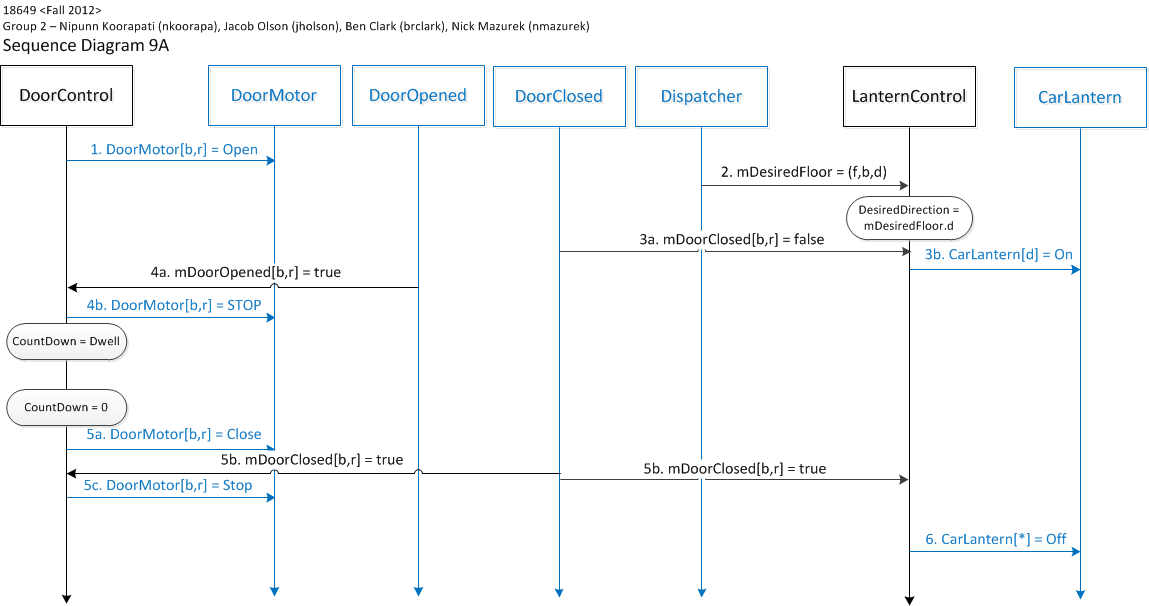
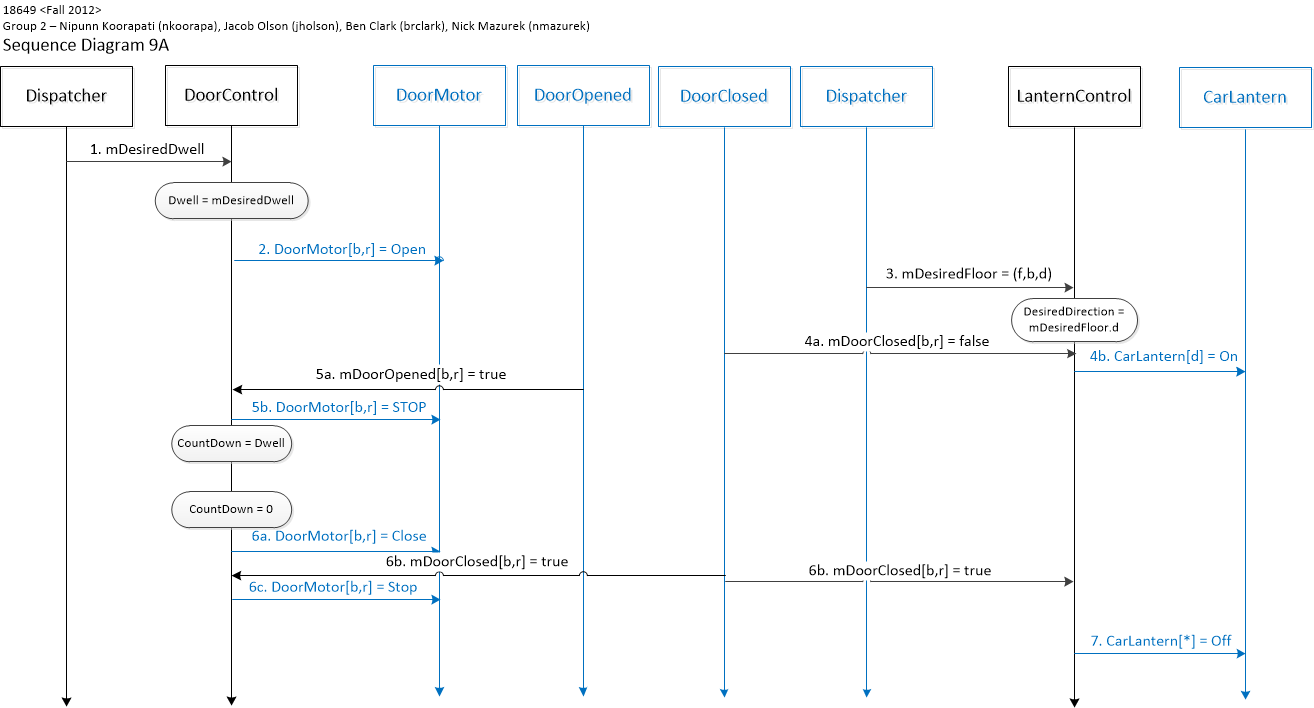
Fixed requirements for HallButtonControl. Peer reviewed by Jake.
Fixed sequence diagrams and scenario for 9A

diff --git a/portfolio/reqs/requirements2.html b/portfolio/reqs/requirements2.html
@@ -1592,26 +1592,24 @@ None.</li>
 <h3> CONSTRAINTS: </h3>
 None
 <h3> EVENT-TRIGGERED BEHAVIORS: </h3>
-8.1&nbsp;&nbsp;&nbsp; If HallCall[f,b,d] is received as Pressed, then<br>
 <ul>
-  <li>8.1.a&nbsp;&nbsp; HallLight[f,b,d] shall be set to On</li>
-  <li>8.1.b&nbsp;&nbsp; mHallCall[f,b,d] shall be set to True</li>
-  <li>8.1.c&nbsp;&nbsp; mHallLight[f,b,d] shall be set to True.</li>
-</ul><br>
-8.2&nbsp;&nbsp;&nbsp; If mAtFloor[f,b,d] is received as True, then
-CurrentFloor shall be set to f.<br>
-8.3&nbsp;&nbsp;&nbsp; If mDesiredFloor.f is received as V, then DesiredFloor
-shall be set to V.<br>
-8.4&nbsp;&nbsp;&nbsp; If mAtFloor[f,b] is received as True and mDesiredFloor
-is set to CurrentFloor, then:<br>
-<ul>
-  <li>8.4.a&nbsp;&nbsp; HallLight[f,b,d] shall be set to Off</li>
-  <li>8.4.b&nbsp;&nbsp; mHallLight[f,b,d] shall be set to False.</li>
-</ul><br>
-
-
-
-<br>
+  <li>8.1&nbsp; If HallCall[f,b,d] is received as Pressed, 
+    then:</li>
+    <ul>
+      <li>8.1.1&nbsp; HallLight[f,b,d] shall be set to On.</li>
+      <li>8.1.2&nbsp; mHallLight[f,b,d] shall be set to True.</li>
+    </ul>
+  <li>8.2&nbsp; If mAtFloor[f,b] is received as True, then
+    CurrentFloor shall be set to f.</li>
+  <li>8.3&nbsp; If mDesiredFloor.f is received as V, then DesiredFloor
+    shall be set to V.</li>
+  <li>8.4&nbsp; If mAtFloor[f,b] is received as True and DesiredFloor
+    is equal to CurrentFloor, then:</li>
+    <ul>
+      <li>8.4.1&nbsp; HallLight[f,b,d] shall be set to Off.</li>
+      <li>8.4.2&nbsp; mHallLight[f,b,d] shall be set to False.</li>
+    </ul>
+</ul>
 <h2><a name="carbuttoncontrol"></a> 9. CarButtonControl[f, b] </h2>
 <h3> Replication: </h3>
 <ul>

diff --git a/portfolio/scen_sd/scen_sd.html b/portfolio/scen_sd/scen_sd.html
@@ -542,6 +542,7 @@ them or that people want to go to. </p>
 </ul>
 <h3> Scenario: </h3>
 <ol start="1" type="1">
+  <li>Set Dwell constant to mDesiredDwell when received.</li>
   <li>All Door[b,r] start to open.</li>
   <li>Dispatcher sends mDesiredFloor.</li>
   <li>CarLantern[<b>d</b>] is set to ON once mDoorClosed[b,r] is false.</li>
